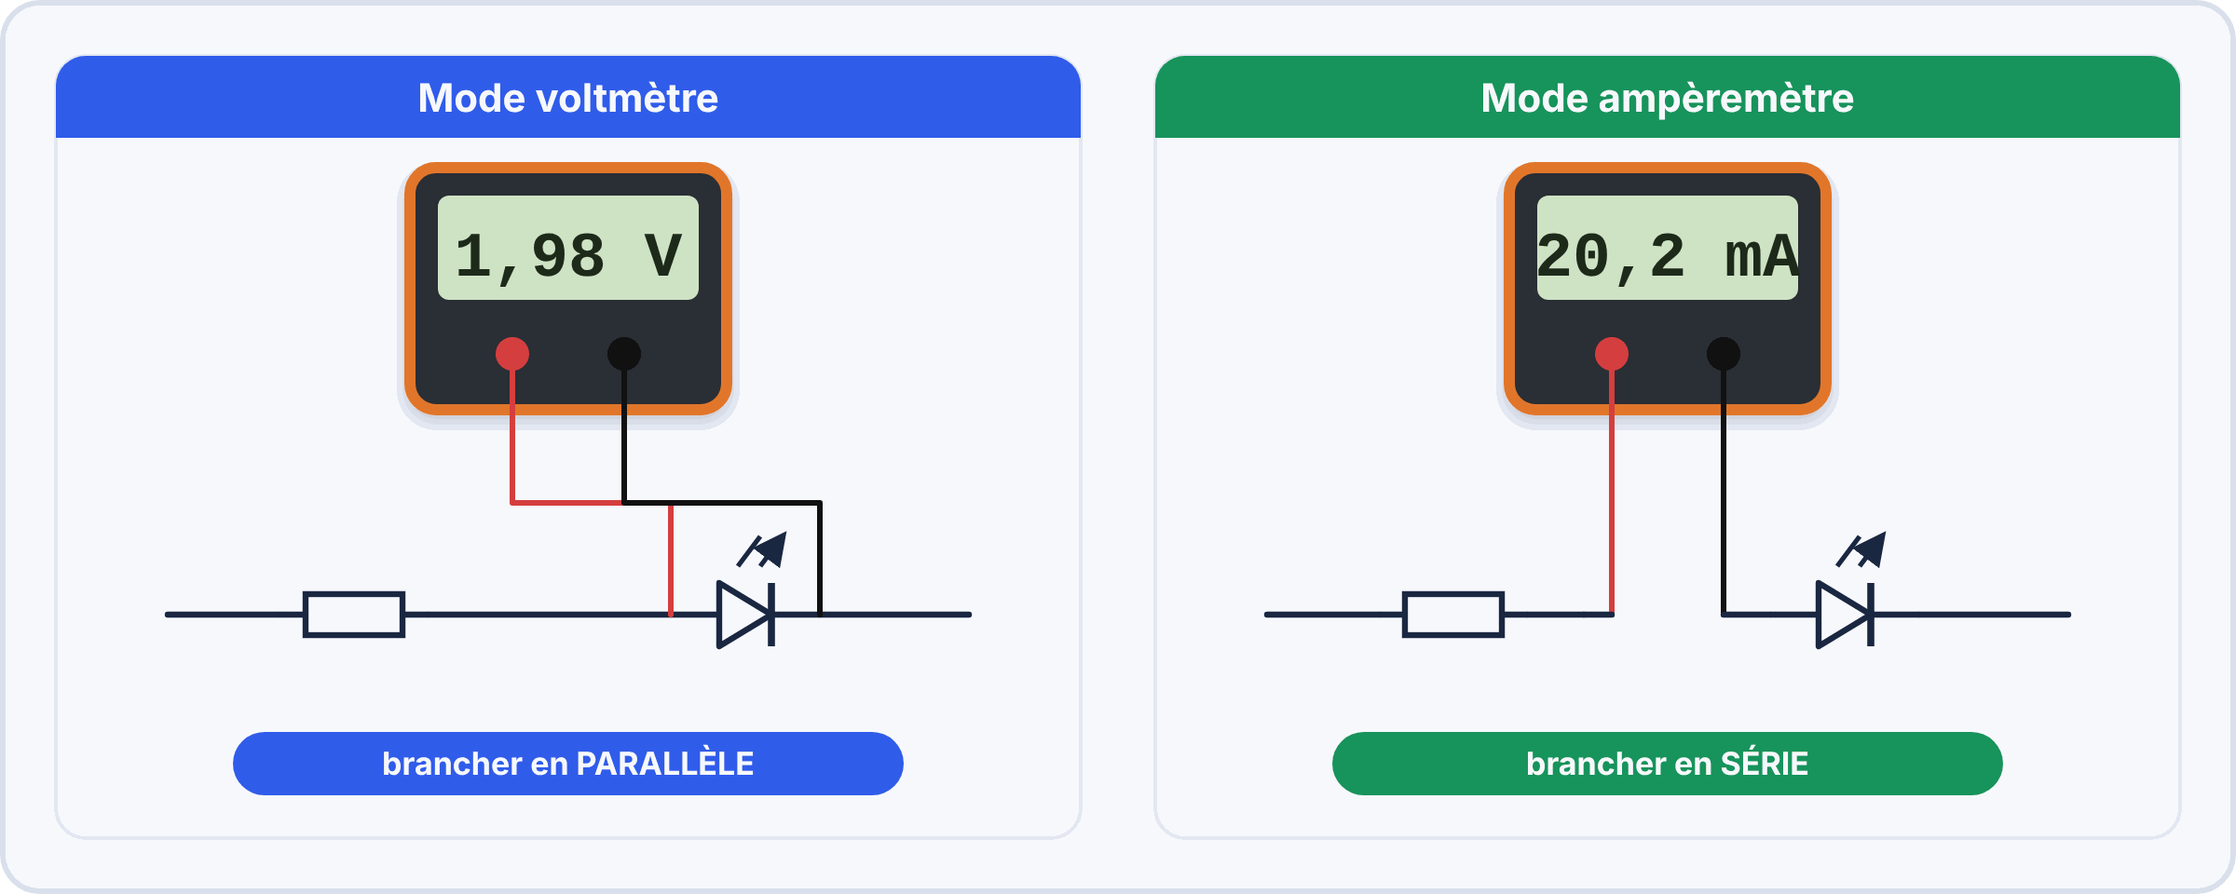
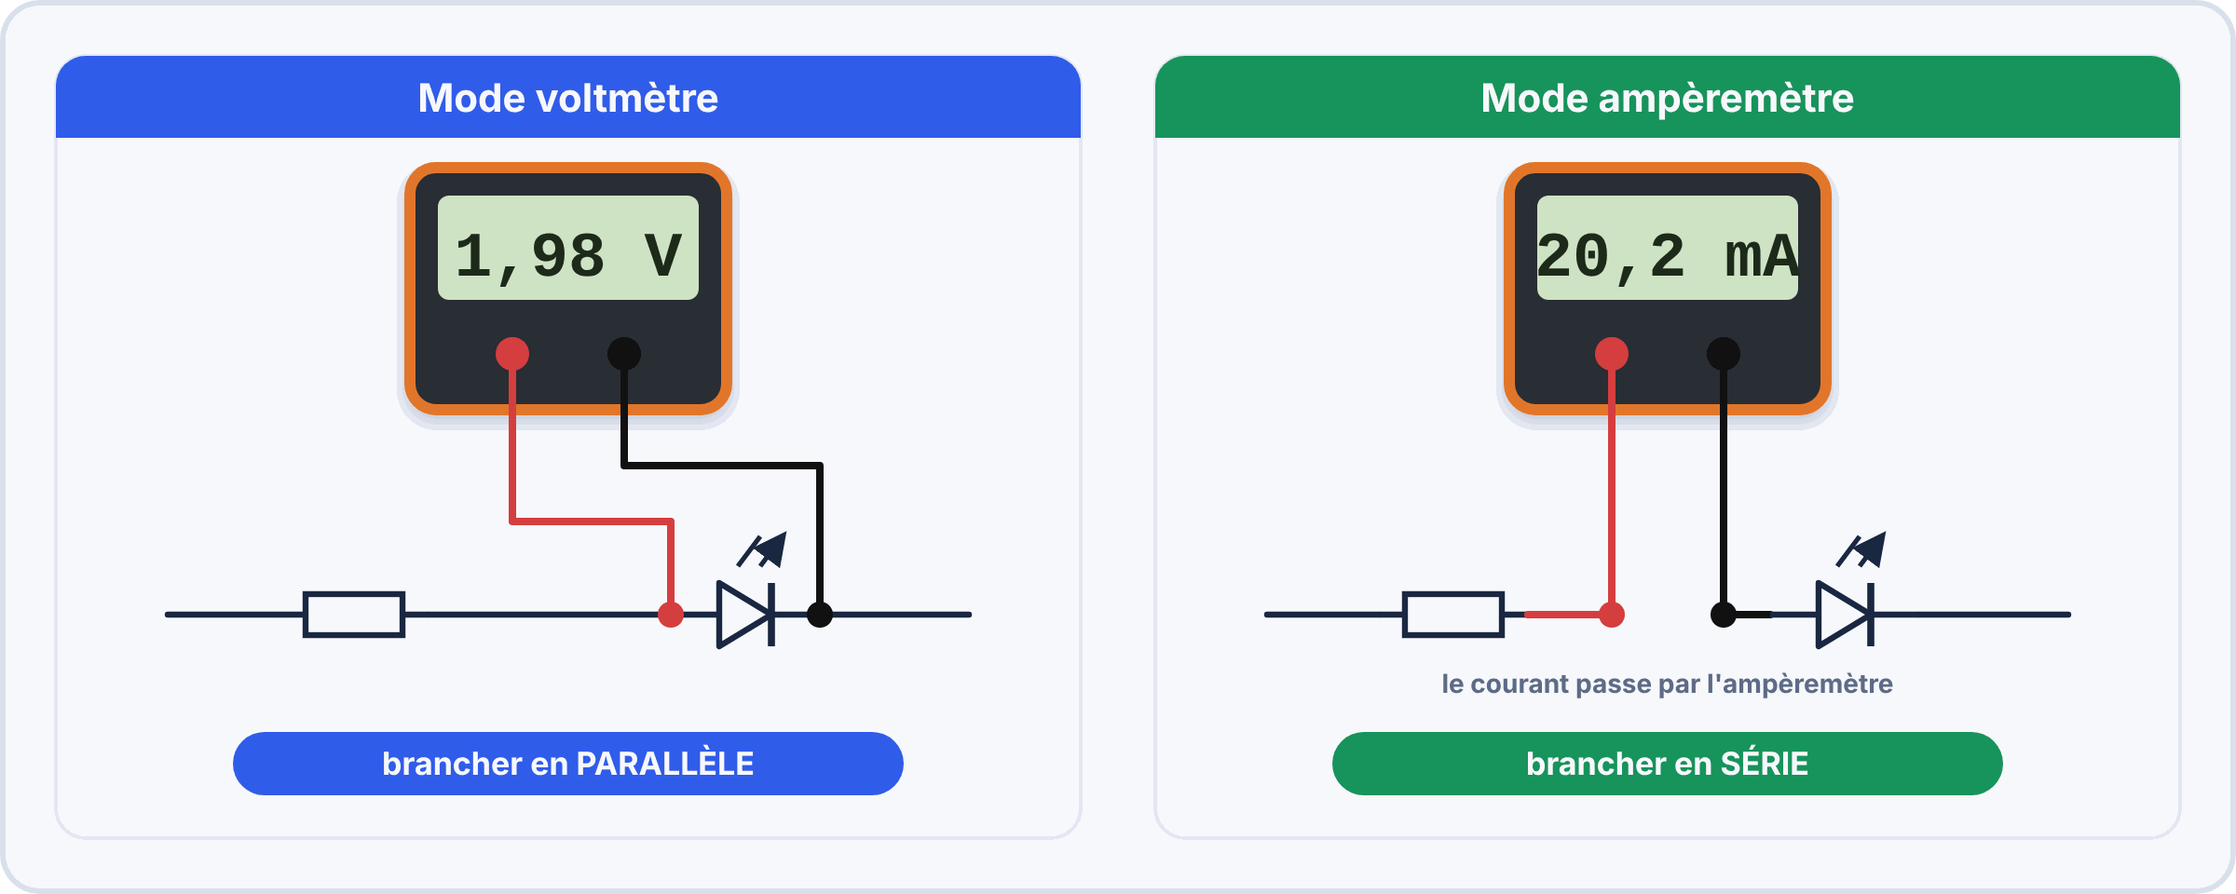
Réponses restantes déroulables, puissances en notation mathématique, schémas LM35, multimètre Tinkercad et coupe PCB nettoyés
Claude-Session: https://claude.ai/code/session_018Ln2Xo12prChdSPrkdSn9D

diff --git a/outils/illustrations-e2/figs_sec9.py b/outils/illustrations-e2/figs_sec9.py
@@ -13,17 +13,17 @@ def f_ex1():
 
 
 def f_cablage_lm35():
-    o = '<g filter="url(#sh)"><rect x="60" y="80" width="330" height="330" rx="16" fill="#1c6c9a"/></g>' + T(225, 125, "Arduino Uno", 22, 800, "#fff")
-    for y, t in ((200, "5V"), (280, "GND"), (360, "A0")): o += f'<rect x="372" y="{y-10}" width="30" height="20" fill="#c0c6cf"/>' + T(350, y + 6, t, 18, 800, "#fff", "end")
-    o += '<g filter="url(#sh)"><path d="M780,120 L780,170 Q780,120 850,120 Q920,120 920,170 L920,200 L780,200 Z" fill="#222"/></g>' + T(850, 168, "LM35", 20, 800, "#fff")
-    for x, n, t, c in ((800, "1", "VCC (+5 V)", RED), (850, "2", "OUT → A0", AMBER), (900, "3", "GND", "#222")):
-        pass
-    pins = [(800, "1", "VCC", RED, 200), (850, "2", "OUT", AMBER, 360), (900, "3", "GND", "#444", 280)]
-    for x, n, t, c, ya in pins:
-        o += f'<rect x="{x-4}" y="200" width="8" height="70" fill="#c0c6cf"/>' + T(x, 300, n, 15, 800, MUTED) + T(x, 322, t, 15, 800, INK)
-        o += f'<path d="M402,{ya} C560,{ya} 640,{270} {x},270" stroke="{c}" stroke-width="6" fill="none" stroke-linecap="round"/>'
-    o += T(850, 100, "face plate vers vous", 15, 700, MUTED) + chip(600, 440, "5V → broche 1 · A0 → broche 2 (OUT) · GND → broche 3", INK, w=760, size=16)
-    return figure(W, 480, o)
+    o = '<g filter="url(#sh)"><rect x="60" y="80" width="330" height="360" rx="16" fill="#1c6c9a"/></g>' + T(225, 125, "Arduino Uno", 22, 800, "#fff")
+    pins = [(220, "5V", RED), (300, "A0", AMBER), (380, "GND", "#222")]
+    for y, t_, c in pins: o += f'<rect x="372" y="{y-10}" width="30" height="20" fill="#c0c6cf"/>' + T(350, y + 6, t_, 18, 800, "#fff", "end")
+    o += '<g filter="url(#sh)"><path d="M770,130 L770,190 L930,190 L930,130 Q930,70 850,70 Q770,70 770,130 Z" fill="#222"/></g>' + T(850, 150, "LM35", 20, 800, "#fff")
+    legs = [(800, "1", "VCC", RED), (850, "2", "OUT", AMBER), (900, "3", "GND", "#222")]
+    for x, n, nm, c in legs: o += f'<rect x="{x-4}" y="190" width="8" height="80" fill="#c0c6cf"/>' + badge(x, 295 if n == "1" else 70 if False else 295, n, "#5d6b86", 11) if False else f'<rect x="{x-4}" y="190" width="8" height="80" fill="#c0c6cf"/>'
+    o += s_wire([(402, 220), (800, 220)], RED, 5) + s_wire([(402, 300), (850, 300), (850, 270)], AMBER, 5) + s_wire([(402, 380), (900, 380), (900, 270)], "#222", 5)
+    o += T(800, 175, "1", 15, 800, "#fff") + T(850, 175, "2", 15, 800, "#fff") + T(900, 175, "3", 15, 800, "#fff")
+    o += T(1000, 150, "1 : VCC (+5 V)", 16, 800, RED, "start") + T(1000, 180, "2 : OUT (vers A0)", 16, 800, "#c98400", "start") + T(1000, 210, "3 : GND", 16, 800, INK, "start") + T(850, 50, "face plate vers vous", 14, 700, MUTED)
+    o += chip(600, 490, "5V → broche 1 · A0 → broche 2 (OUT) · GND → broche 3", INK, w=760, size=16)
+    return figure(W, 530, o)
 
 
 def f_l293d():

diff --git a/outils/illustrations-e2/figs_sec6.py b/outils/illustrations-e2/figs_sec6.py
@@ -161,8 +161,12 @@ def f_tinker_multi():
     o = ""
     for k, (x, head, disp, note, c) in enumerate(((30, "Mode voltmètre", "1,98 V", "brancher en PARALLÈLE", BLUE), (620, "Mode ampèremètre", "20,2 mA", "brancher en SÉRIE", GREEN))):
         o += panel(x, 30, 550, 420, head, accent=c) + f'<g filter="url(#sh)"><rect x="{x+190}" y="90" width="170" height="130" rx="14" fill="#2b2f36" stroke="#e2762a" stroke-width="6"/></g><rect x="{x+205}" y="105" width="140" height="56" rx="6" fill="#cfe3c4"/>' + T(x + 275, 148, disp, 34, 700, "#1d2a1a", extra='font-family="monospace"') + f'<circle cx="{x+245}" cy="190" r="9" fill="{RED}"/><circle cx="{x+305}" cy="190" r="9" fill="#111"/>'
-        if k == 0: o += s_wire([(x + 60, 330), (x + 120, 330)]) + sym("R", x + 160, 330) + s_wire([(x + 200, 330), (x + 330, 330)]) + sym("LED", x + 370, 330) + s_wire([(x + 410, 330), (x + 490, 330)]) + s_wire([(x + 245, 199), (x + 245, 270), (x + 330, 270), (x + 330, 330)], RED, 3) + s_wire([(x + 305, 199), (x + 305, 270), (x + 410, 270), (x + 410, 330)], "#111", 3)
-        else: o += s_wire([(x + 60, 330), (x + 120, 330)]) + sym("R", x + 160, 330) + s_wire([(x + 200, 330), (x + 230, 330), (x + 230, 330)]) + s_wire([(x + 245, 199), (x + 245, 330)], RED, 3) + s_wire([(x + 305, 199), (x + 305, 330)], "#111", 3) + s_wire([(x + 305, 330), (x + 330, 330)]) + sym("LED", x + 370, 330) + s_wire([(x + 410, 330), (x + 490, 330)]) + s_wire([(x + 230, 330), (x + 245, 330)])
+        if k == 0:
+            o += s_wire([(x + 60, 330), (x + 120, 330)]) + sym("R", x + 160, 330) + s_wire([(x + 200, 330), (x + 330, 330)]) + sym("LED", x + 370, 330) + s_wire([(x + 410, 330), (x + 490, 330)])
+            o += s_wire([(x + 245, 199), (x + 245, 280), (x + 330, 280), (x + 330, 330)], RED, 4) + s_wire([(x + 305, 199), (x + 305, 250), (x + 410, 250), (x + 410, 330)], "#111", 4) + dot(x + 330, 330, 7, RED) + dot(x + 410, 330, 7, "#111")
+        else:
+            o += s_wire([(x + 60, 330), (x + 120, 330)]) + sym("R", x + 160, 330) + s_wire([(x + 200, 330), (x + 245, 330), (x + 245, 199)], RED, 4) + s_wire([(x + 305, 199), (x + 305, 330), (x + 330, 330)], "#111", 4) + sym("LED", x + 370, 330) + s_wire([(x + 410, 330), (x + 490, 330)])
+            o += dot(x + 245, 330, 7, RED) + dot(x + 305, 330, 7, "#111") + T(x + 275, 372, "le courant passe par l'ampèremètre", 14, 700, MUTED)
         o += chip(x + 275, 410, note, c, w=360, size=17)
     return figure(W, 480, o)
 

diff --git a/outils/import_e2/nettoyage.py b/outils/import_e2/nettoyage.py
@@ -39,23 +39,35 @@ def header_footer(L):
     return out
 
 
+def details(body, title):
+    return ['', f'??? success "{title}"'] + ['    ' + x.rstrip() + ('  ' if k < len(body) - 1 else '') for k, x in enumerate(body)] + ['']
+
+
 def reponses(L):
     out = []; i = 0; fence = False
     while i < len(L):
         l = L[i]
-        if re.match(r'^\s*```', l): fence = not fence; out.append(l); i += 1; continue
-        m = None if fence else REP.match(l)
-        if m and not l.startswith((' ', '\t', '>', '|')):
+        if re.match(r'^\s*```', l):
+            fence = not fence; out.append(l); i += 1; continue
+        m = REP.match(l) if not l.startswith(('\t', '>', '|')) else None
+        if m and (fence or not l.startswith(' ')):
             label = m.group(2) + (m.group(3) or '')
             body = [m.group(5)] if m.group(5).strip() else []
             j = i + 1
+            if not body:
+                while j < len(L) and not L[j].strip(): j += 1
             while j < len(L) and L[j].strip() and not L[j].startswith(('#', '---', '```', '|', '>', '![', '**R', '*R')): body.append(L[j]); j += 1
-            if body and not any('___' in b or '…' * 2 in b for b in body) and sum(len(b) for b in body) < 900:
+            if body and not any('___' in b for b in body) and sum(len(b) for b in body) < 900:
                 title = 'Réponses' if label.lower().startswith('réponses') else 'Réponse'
+                if fence:
+                    k = j
+                    while k < len(L) and not re.match(r'^\s*```', L[k]): k += 1
+                    rest = [x for x in L[j:k]]
+                    out.append('```'); out += details(body, title)
+                    if any(x.strip() for x in rest): out.append('```'); out += rest + ['```']
+                    fence = False; i = k + 1; continue
                 if out and out[-1].strip(): out.append('')
-                out.append(f'??? success "{title}"')
-                out += ['    ' + b.rstrip() + ('  ' if k < len(body) - 1 else '') for k, b in enumerate(body)]
-                out.append(''); i = j; continue
+                out += details(body, title)[1:]; i = j; continue
         out.append(l); i += 1
     return out
 

diff --git a/outils/import_e2/puissances.py b/outils/import_e2/puissances.py
@@ -1,0 +1,42 @@
+"""Met en notation mathématique les puissances restées en texte (2^10, e^(−λt), 10⁻⁵, h⁻¹)."""
+import glob, re, sys
+
+SUP = {'⁻': '-', '⁰': '0', '¹': '1', '²': '2', '³': '3', '⁴': '4', '⁵': '5', '⁶': '6', '⁷': '7', '⁸': '8', '⁹': '9'}
+SUPS = ''.join(SUP)
+
+
+def sup(s): return ''.join(SUP[c] for c in s)
+
+
+def inner(s): return s.replace('−', '-').replace('λ', r'\lambda ').replace('×', r'\times ').strip()
+
+
+def conv(l):
+    if '$' in l or l.lstrip().startswith(('![', '#!')): return l
+    parts = re.split(r'(!\[[^\]]*\]\([^)]*\)|`[^`]*`|\]\([^)]*\))', l)
+    for k in range(0, len(parts), 2):
+        s = parts[k]
+        s = re.sub(r'(\d+(?:,\d+)?)\s*[×x]\s*10([' + SUPS + r']+)', lambda m: '$' + m.group(1).replace(',', '{,}') + r'\times 10^{' + sup(m.group(2)) + '}$', s)
+        s = re.sub(r'(?<![\w$])10([' + SUPS + r']+)', lambda m: '$10^{' + sup(m.group(1)) + '}$', s)
+        s = re.sub(r'\b([a-zA-Zλ])([' + SUPS + r']+)', lambda m: '$\\mathrm{' + m.group(1) + '}^{' + sup(m.group(2)) + '}$' if m.group(1) in 'h' else m.group(0), s)
+        s = re.sub(r'\be\^\(([^)]*)\)', lambda m: '$e^{' + inner(m.group(1)) + '}$', s)
+        s = re.sub(r'\b(e|\d+)\^([A-Za-z0-9])\b', lambda m: '$' + m.group(1) + '^{' + m.group(2) + '}$', s)
+        parts[k] = s
+    return ''.join(parts)
+
+
+def fix(text):
+    L = text.split('\n'); fence = False; math = False; out = []
+    for l in L:
+        if re.match(r'^\s*```', l): fence = not fence; out.append(l); continue
+        if l.strip() == '$$': math = not math; out.append(l); continue
+        out.append(l if fence or math else conv(l))
+    return '\n'.join(out)
+
+
+if __name__ == '__main__':
+    n = 0
+    for f in glob.glob(sys.argv[1] + '/docs/*/*/*.md'):
+        t = open(f, encoding='utf-8').read(); u = fix(t)
+        if u != t: open(f, 'w', encoding='utf-8').write(u); n += 1
+    print('fichiers avec puissances converties', n)

diff --git a/outils/illustrations-e2/figs_sec8.py b/outils/illustrations-e2/figs_sec8.py
@@ -23,9 +23,9 @@ def f_coupe_pcb():
     for t, s, c, h in layers:
         cy -= h; ys[t] = cy + h / 2
     for i, (t, s, c, h) in enumerate(layers):
-        ty = 120 + i * 90
+        ty = 120 + (3 - i) * 90
         o += f'<line x1="{xe}" y1="{ys[t]}" x2="830" y2="{ty}" stroke="{MUTED}" stroke-width="2"/><circle cx="{xe}" cy="{ys[t]}" r="5" fill="#fff" stroke="{MUTED}" stroke-width="2.5"/>' + T(840, ty - 2, t, 20, 800, INK, "start") + T(840, ty + 24, s, 15, 500, MUTED, "start")
-    o += callout(440, 200, 300, 90, "trou de perçage traversant\navec son pad de cuivre", "middle", 16, bold=True)
+    o += callout(440, 200, 250, 90, "trou de perçage traversant\navec son pad de cuivre", "middle", 16, bold=True)
     return figure(W, 480, o)
 
 

diff --git a/docs/premiere/S11-fiabilite-des-composants-mtbf-mttr-loi/01-cours.md b/docs/premiere/S11-fiabilite-des-composants-mtbf-mttr-loi/01-cours.md
@@ -124,12 +124,12 @@ Où :
 
 ### Calcul pratique avec la calculatrice
 
-Pour calculer e^(−λt) :  
-Méthode 1 : touche [e^x] → entrer (−λt)  
+Pour calculer $e^{-\lambda t}$ :  
+Méthode 1 : touche [$e^{x}$] → entrer (−λt)  
 Méthode 2 : touche [e] × [x] → EXP puis le nombre  
 
 Exemple :  
-MTBF = 50 000 h · λ = 1/50 000 = 2×10⁻⁵ h⁻¹  
+MTBF = 50 000 h · λ = 1/50 000 = $2\times 10^{-5}$ $\mathrm{h}^{-1}$  
 Quelle est la fiabilité après 1 an (8 760 h) ?  
 
 $$R(8760) = e^(-2 \times 10⁻⁵ \times 8760)$$
@@ -184,18 +184,18 @@ $$\lambda_s = \lambda_1 + \lambda_2 + \lambda_3 + \dots + \lambda_n \quad\Righta
 ### Exemple : carte ESP32 avec 4 composants critiques
 
 Composant       | MTBF (h)    | λ (pannes/h)  
-ESP32 module    | 100 000     | 10⁻⁵  
-DHT22           | 50 000      | 2×10⁻⁵  
-Alimentation    | 80 000      | 1,25×10⁻⁵  
-Condensateur    | 60 000      | 1,67×10⁻⁵  
+ESP32 module    | 100 000     | $10^{-5}$  
+DHT22           | 50 000      | $2\times 10^{-5}$  
+Alimentation    | 80 000      | $1{,}25\times 10^{-5}$  
+Condensateur    | 60 000      | $1{,}67\times 10^{-5}$  
 
-λsystème = 10⁻⁵ + 2×10⁻⁵ + 1,25×10⁻⁵ + 1,67×10⁻⁵  
+λsystème = $10^{-5}$ + $2\times 10^{-5}$ + $1{,}25\times 10^{-5}$ + $1{,}67\times 10^{-5}$  
 
 $$= (1 + 2 + 1{,}25 + 1{,}67) \times 10⁻⁵$$
 
-= 5,92 × 10⁻⁵ pannes/heure  
+= $5{,}92\times 10^{-5}$ pannes/heure  
 
-MTBFsystème = 1 / 5,92×10⁻⁵ = 16 892 heures ≈ 1,9 ans  
+MTBFsystème = 1 / $5{,}92\times 10^{-5}$ = 16 892 heures ≈ 1,9 ans  
 
 Vérification avec R(t) après 8 760 h (1 an) :  
 
@@ -236,7 +236,7 @@ MTBFs ≈ MTBF × (1 + 1/2) = 1,5 × MTBF  (approximation)
 
 ### Exemple : deux alimentations redondantes
 
-Alimentation A : MTBF = 80 000 h · R(8760) = e^(−8760/80000) = e^(−0,1095) = 0,896  
+Alimentation A : MTBF = 80 000 h · R(8760) = $e^{-8760/80000}$ = $e^{-0,1095}$ = 0,896  
 Alimentation B : MTBF = 80 000 h · même fiabilité  
 
 $$Rs(8760) = 1 - (1 - 0{,}896) \times (1 - 0{,}896)$$
@@ -305,11 +305,11 @@ $$D = \dfrac{2\,500}{2\,500 + 3{,}6} = \dfrac{2\,500}{2\,503{,}6} = 0{,}9986 = 9
 > ✅ **MTTR** = TA / n → plus court = meilleure maintenabilité
 > ✅ **D = MTBF / (MTBF + MTTR)** → proche de 1 = très disponible
 > ✅ **λ = 1/MTBF** → plus λ est petit, plus le composant est fiable
-> ✅ **R(t) = e^(−λt)** → à t=MTBF : R = e^(−1) ≈ **36,8%**
+> ✅ **R(t) = $e^{-\lambda t}$** → à t=MTBF : R = $e^{-1}$ ≈ **36,8%**
 > ✅ **Série** : Rs = R1 × R2 → PLUS fragile (Rs < Rmin)
 > ✅ **Parallèle** : Rs = 1−(1−R1)(1−R2) → PLUS fiable (Rs > Rmax)
 > ✅ La **courbe en baignoire** montre les 3 phases : mortalité infantile, vie utile, usure
-> ✅ FIT = λ × 10⁹ (unité industrielle du taux de panne)
+> ✅ FIT = λ × $10^{9}$ (unité industrielle du taux de panne)
 
 ---
 

diff --git a/docs/terminale/S17-entrainement-contrainte-de-temps/03-exercices.md b/docs/terminale/S17-entrainement-contrainte-de-temps/03-exercices.md
@@ -23,9 +23,13 @@ Réflexe ⑥  : Dans tous les calculs, utiliser la valeur _______ (pas _______).
 Réflexe ⑦  : Décision PV doit être _______ avec les non-conformités trouvées.
 Réflexe ⑧  : _______ le PV avant de rendre.
 
-Réponses attendues :
-① ÉTEINT · ② AVANT · ③ UNITÉ · ④ e̅ / σ / u / U · ⑤ biais / U / spécification
-⑥ MESURÉE / nominale · ⑦ COHÉRENTE · ⑧ SIGNER
+```
+
+??? success "Réponses"
+    ① ÉTEINT · ② AVANT · ③ UNITÉ · ④ e̅ / σ / u / U · ⑤ biais / U / spécification  
+    ⑥ MESURÉE / nominale · ⑦ COHÉRENTE · ⑧ SIGNER
+
+```
 
 Mon score : ___/8  ☐ Tous acquis → continuer · ☐ Manques → revoir S12-3A_02
 ```
@@ -57,11 +61,9 @@ t_réelle   = ___________________________
 ??? success "Réponses"
 
     1. (Vin−Vout) × Iout  2. Tamb + Pdiss × Rθja · 105°C  
-    3. I_ESP32 + I_DHT22 + I_LED + I_charge (ne pas oublier R_charge !)
-
-$$4. \dfrac{V_{out}}{V_{in}} = \dfrac{3{,}3}{5} = 66\,\mathrm{\%}$$
-
-5. I_moy / η · Capacité(mAh) / I_batterie × 0,80  
+    3. I_ESP32 + I_DHT22 + I_LED + I_charge (ne pas oublier R_charge !)  
+    $$4. \dfrac{V_{out}}{V_{in}} = \dfrac{3{,}3}{5} = 66\,\mathrm{\%}$$  
+    5. I_moy / η · Capacité(mAh) / I_batterie × 0,80
 
 Mon score : ___/5  ☐ Tous → continuer · ☐ Revoir → S3-3A_06 + S15-3A_06  
 
@@ -82,8 +84,12 @@ Conformité : _______ + _______ ≤ _______
 Rs série    : Rs = _______________________
 Rs parallèle: Rs = _______________________
 
-Réponses :
-e̅=Σei/n · σ=√(Σei²/(n-1)) · u=σ/√n · U=2u · 95%
+```
+
+??? success "Réponses"
+    e̅=Σei/n · σ=√(Σei²/(n-1)) · u=σ/√n · U=2u · 95%
+
+```
 |e̅|+U ≤ spécif · 36,8% · R1×R2×R3 · 1−(1−R1)(1−R2)
 
 Mon score : ___/8  ☐ Tous → excellent · ☐ Revoir → S11-2A_06 + S8-3A_06
@@ -103,7 +109,12 @@ Question flash : sans réfléchir, répondre en 5 secondes chacune.
 5. Commande KiCad pour remplir les zones (plan de masse)?     _______
 6. Émissions conduites : fréquences < _______ MHz
 
-Réponses : 1-6,25mm · 2-159Hz · 3-problème · 4-2mm · 5-B · 6-30MHz
+```
+
+??? success "Réponses"
+    1-6,25mm · 2-159Hz · 3-problème · 4-2mm · 5-B · 6-30MHz
+
+```
 
 Mon score : ___/6  ☐ Tous → continuer · ☐ Revoir → S13-2A_06
 ```

diff --git a/docs/terminale/S01-circuit-fourni-multimetre-oscilloscope/annexe-fiches-de-remediation-express.md b/docs/terminale/S01-circuit-fourni-multimetre-oscilloscope/annexe-fiches-de-remediation-express.md
@@ -38,8 +38,10 @@ Q1 : Y a-t-il une violation DRC ? ☐ Oui ☐ Non · De combien ? _______ mm
 Q2 : Le condensateur est-il bien placé ? ☐ Oui ☐ Non · Règle : _______________
 Q3 : Le plan fendu pose-t-il un problème CEM ? ☐ Oui ☐ Non · Raison : __________
 
-Réponses : Q1=Oui +0,05mm · Q2=Non (8mm >> 2mm) · Q3=Oui (grande boucle = rayonnement)
 ```
+
+??? success "Réponses"
+    Q1=Oui +0,05mm · Q2=Non (8mm >> 2mm) · Q3=Oui (grande boucle = rayonnement)
 
 ---
 
@@ -80,8 +82,10 @@ void loop() {
 }
 // Bonus : quelle 4ème erreur critique dans loop() ?
 
-Réponses : 115200 · !=WL_CONNECTED · ID unique · mqtt.loop() absent
 ```
+
+??? success "Réponses"
+    115200 · !=WL_CONNECTED · ID unique · mqtt.loop() absent
 
 ---
 
@@ -125,7 +129,7 @@ $$Rs_nouveau = \underline{\hspace{2.5em}} \times 0{,}92 = \underline{\hspace{2.5
 Gain : _______ points  
 
 ??? success "Réponses"
-    a)2×10⁻⁵ b)0,1752/0,839/83,9% c)0,773/77,3% d)0,0256/0,974 · 0,896 · 89,6% · +12,3pts
+    a)$2\times 10^{-5}$ b)0,1752/0,839/83,9% c)0,773/77,3% d)0,0256/0,974 · 0,896 · 89,6% · +12,3pts
 
 ---
 
@@ -158,8 +162,10 @@ c) Quelle violation CEM : condensateur 100nF placé à 15mm de l'ESP32 ?
 d) Plan de masse fendu par une piste d'alimentation : quel problème CEM ?
    ____________________________________________________________________________
 
-Réponses : a)3m/0,15m/15cm b)72Hz c)inductance piste → filtre inefficace à HF d)détour courant→grande boucle→rayonnement
 ```
+
+??? success "Réponses"
+    a)3m/0,15m/15cm b)72Hz c)inductance piste → filtre inefficace à HF d)détour courant→grande boucle→rayonnement
 
 ---
 

diff --git a/docs/premiere/S11-fiabilite-des-composants-mtbf-mttr-loi/03-exercices.md b/docs/premiere/S11-fiabilite-des-composants-mtbf-mttr-loi/03-exercices.md
@@ -122,7 +122,7 @@ La solution la plus proche est : _____________________________________________
 
 ---
 
-## 🟡 BLOC 2 — Loi Exponentielle R(t) = e^(−λt) (30 min)
+## 🟡 BLOC 2 — Loi Exponentielle R(t) = $e^{-\lambda t}$ (30 min)
 
 ### Exercice 2.1 — Capteur DHT22
 
@@ -137,12 +137,12 @@ En notation scientifique : λ = _______ × 10⁻⁵ pannes/heure
 
 **Q2.1.b** — Calcule la fiabilité R(t) pour les durées suivantes :
 
-| Durée t | Calcul λt | R(t) = e^(−λt) | En % |
+| Durée t | Calcul λt | R(t) = $e^{-\lambda t}$ | En % |
 |---|---|---|---|
 | 1 an (8 760 h) | | | |
 | 2 ans (17 520 h) | | | |
 | 5 ans (43 800 h) | | | |
-| MTBF (50 000 h) | | e^(−1) = 0,368 | 36,8% |
+| MTBF (50 000 h) | | $e^{-1}$ = 0,368 | 36,8% |
 
 **Q2.1.c** — Interprète le résultat à t = 1 an :
 
@@ -287,7 +287,7 @@ Calculer la nouvelle Rs avec votre amélioration : _______ %
 | Calcul MTBF, MTTR, D à partir d'un historique | ☐ | ☐ | ☐ |
 | Conversion heures ↔ années ↔ mois | ☐ | ☐ | ☐ |
 | Calcul λ = 1/MTBF | ☐ | ☐ | ☐ |
-| Calcul R(t) = e^(−λt) avec calculatrice | ☐ | ☐ | ☐ |
+| Calcul R(t) = $e^{-\lambda t}$ avec calculatrice | ☐ | ☐ | ☐ |
 | Fiabilité système série Rs = R1×R2×... | ☐ | ☐ | ☐ |
 | Fiabilité système parallèle Rs = 1−(1−R1)(1−R2) | ☐ | ☐ | ☐ |
 | Décomposer un système mixte série/parallèle | ☐ | ☐ | ☐ |

diff --git a/docs/seconde/S09-capteur-lm35-analogread-et-conversion/01-cours.md b/docs/seconde/S09-capteur-lm35-analogread-et-conversion/01-cours.md
@@ -540,7 +540,7 @@ void loop() {
 | **Analogique** | Signal continu (infinité de valeurs) | Température réelle |
 | **Numérique** | Signal discret (valeurs finies) | Compteur (1, 2, 3...) |
 | **ADC** | Convertisseur Analogique-Digital | Arduino Uno (10 bits) |
-| **Résolution** | Nombre de niveaux (2^n) | 10 bits = 1024 niveaux |
+| **Résolution** | Nombre de niveaux ($2^{n}$) | 10 bits = 1024 niveaux |
 | **LM35** | Capteur température analogique | 10 mV/°C |
 | **Sensibilité** | Variation de sortie par unité | 10 mV/°C |
 | **analogRead()** | Fonction Arduino lire port analogique | analogRead(A0) |

diff --git a/docs/premiere/S13-cem-compatibilite-electromagnetique/02-tp.md b/docs/premiere/S13-cem-compatibilite-electromagnetique/02-tp.md
@@ -127,7 +127,7 @@ Violation 4 : _________________________________________________________________
 
 **Q2.2** — Pour la piste longue de 15 cm du capteur ADC :
 À partir de quelle fréquence cette piste commence-t-elle à se comporter comme une antenne ?
-(Règle : antenne efficace si longueur > λ/20, avec λ = c/f et c = 3×10⁸ m/s)
+(Règle : antenne efficace si longueur > λ/20, avec λ = c/f et c = $3\times 10^{8}$ m/s)
 
 Longueur de piste L = 15 cm = 0,15 m  
 

diff --git a/docs/seconde/S11-pcb-simple-face-gravure-chimique/01-cours.md b/docs/seconde/S11-pcb-simple-face-gravure-chimique/01-cours.md
@@ -45,7 +45,7 @@
 ### 1.2 Caractéristiques du cuivre standard
 
 35 µm de cuivre sur FR4 :  
-Résistivité : ρ = 1,72 × 10⁻⁸ Ω·m  
+Résistivité : ρ = $1{,}72\times 10^{-8}$ Ω·m  
 Résistance d'une piste de 100 mm × 1 mm × 35 µm :  
 
 $$R = ρ \times \dfrac{L}{l \times e} = 1{,}72 \times 10⁻⁸ \times \dfrac{0{,}1}{0{,}001 \times 35 \times 10⁻⁶} = 0{,}049\,\mathrm{\Omega } \approx 50 m\Omega$$
